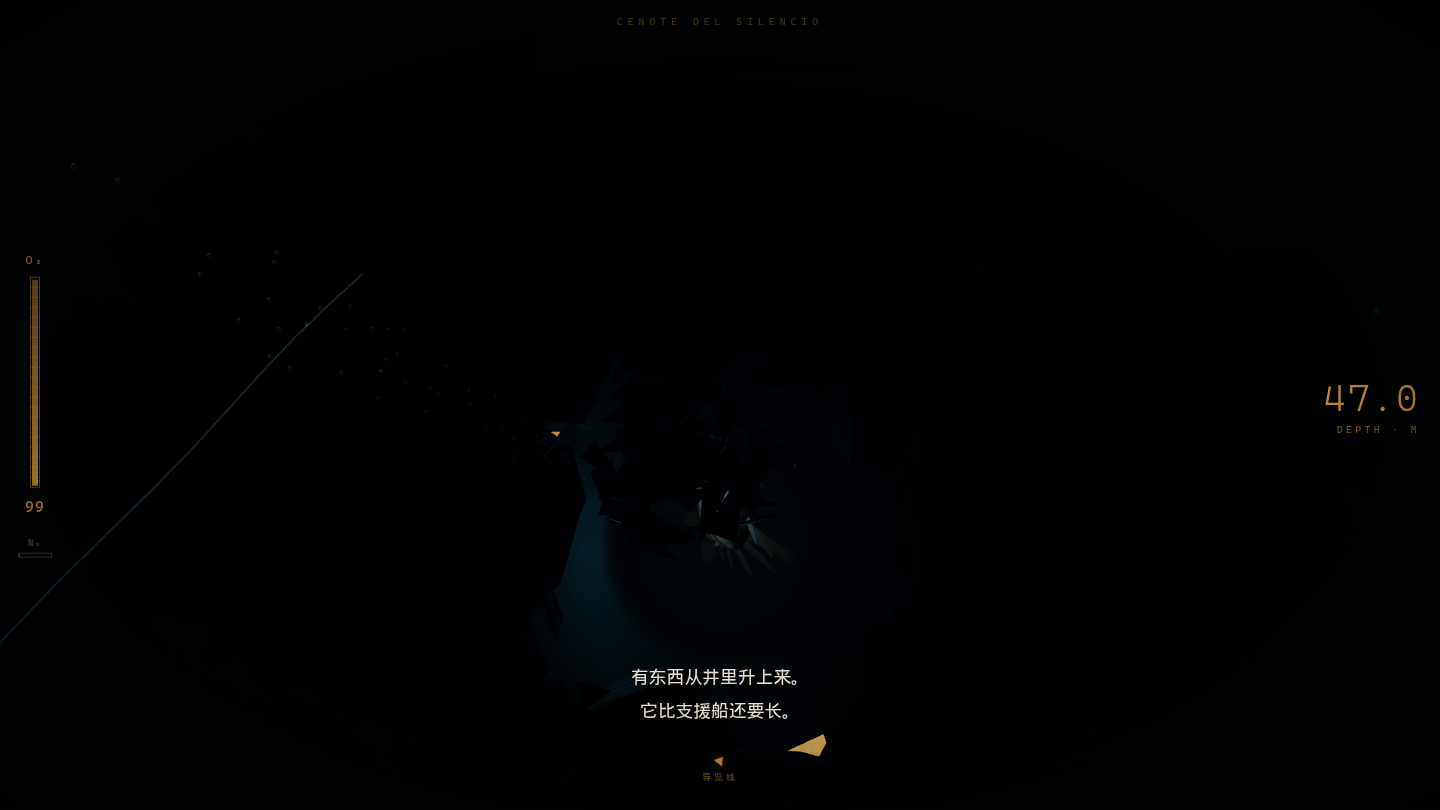
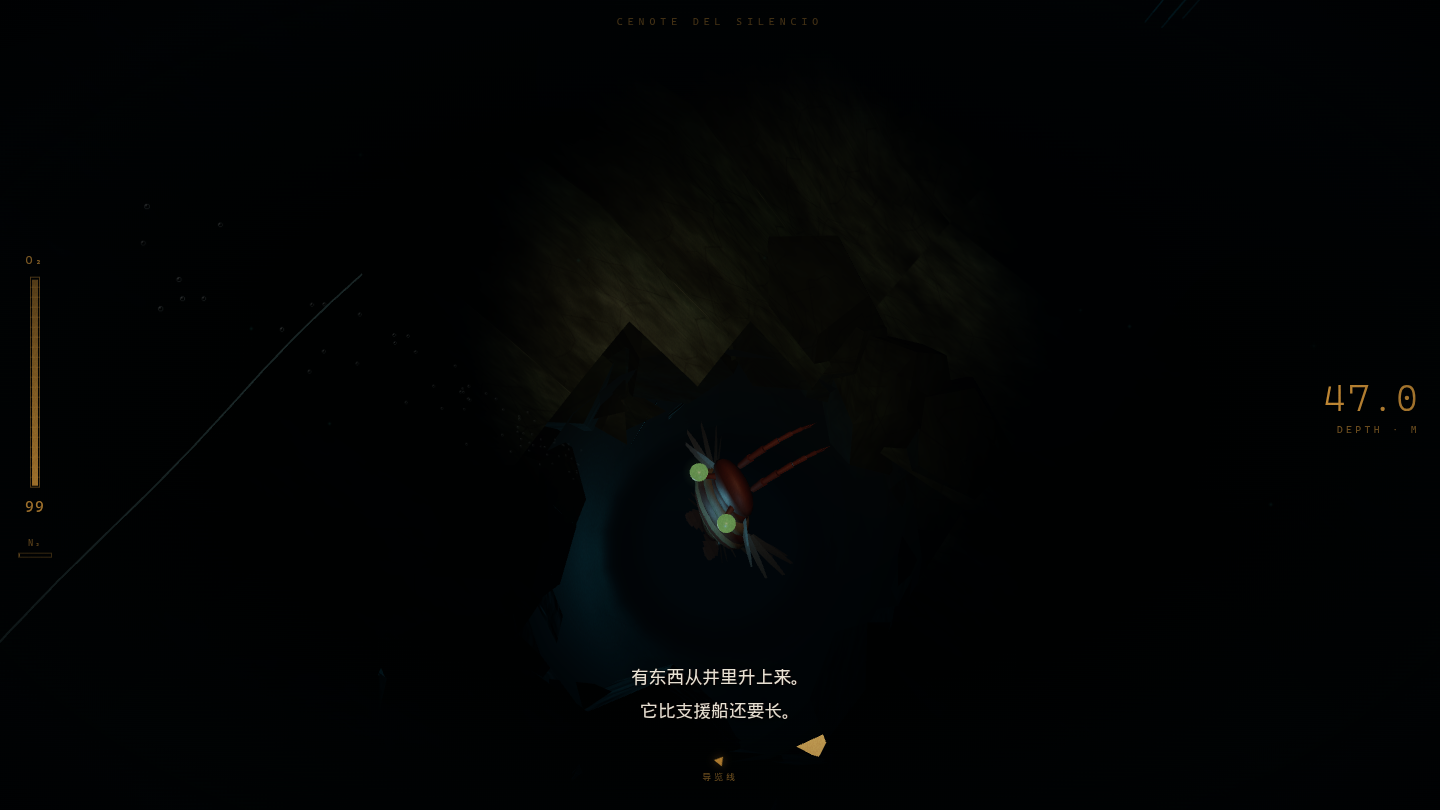
polish(LoopF-R1): 裂隙天窗光晕+光束增强(蓝块→燃烧天窗)、沉船双层补光与取景、卤水云面半径收敛(不再泄漏进大厅)、塔尖亮斑增强、通用地标查询/朝向调试钩子、水面英雄镜头

Changed region(s): [[0.4688, 0.5247, 0.5625, 0.679], [0.4062, 0.3086, 0.5, 0.463]]

diff --git a/src/game/Landmarks.ts b/src/game/Landmarks.ts
@@ -15,9 +15,11 @@ export class Landmarks {
   /** 卤水云层（Game 判定穿越） */
   readonly haloPlaneY: number;
   readonly haloCenter = new THREE.Vector3();
-  readonly haloRadius = 24;
+  readonly haloRadius = 15; // 不得泄漏进相邻的光之厅
   /** 祭坛供品（互动发光） */
   readonly altarPos = new THREE.Vector3();
+  /** 沉船中心（取景/调试用） */
+  readonly wreckPos = new THREE.Vector3();
   readonly altarLight: THREE.PointLight;
   private altarGems: THREE.Mesh[] = [];
   private haloMats: THREE.MeshBasicMaterial[] = [];
@@ -111,7 +113,7 @@ export class Landmarks {
       rad *= 0.62;
     }
     // 塔尖被光束击中的亮斑
-    const tipGlow = new THREE.PointLight(0xbfe8da, 26, 16, 1.7);
+    const tipGlow = new THREE.PointLight(0xbfe8da, 42, 18, 1.6);
     tipGlow.position.set(crack.x, y + 0.6, crack.z);
     cave.zoneLights.push(tipGlow);
     tower.add(tipGlow);
@@ -233,6 +235,7 @@ export class Landmarks {
     wreck.position.set(center.x + 2, floorY, center.z + 1.5);
     wreck.rotation.y = Math.atan2(tan.x, tan.z) + 0.5;
     wreck.rotation.z = 0.14;
+    this.wreckPos.set(center.x + 2, floorY + 0.8, center.z + 1.5);
 
     const wood = new THREE.MeshStandardMaterial({
       map: woodTexture(256),
@@ -300,11 +303,16 @@ export class Landmarks {
     wreck.add(lantern);
     this.group.add(wreck);
 
-    // 沉船厅幽绿死水补光
-    const fill = new THREE.PointLight(0x3a5c48, 60, 46, 1.45);
-    fill.position.set(center.x, center.y + 3, center.z);
+    // 沉船厅幽绿死水补光（主光压向船体，让龙骨肋骨的剪影可读）
+    const fill = new THREE.PointLight(0x3a5c48, 120, 52, 1.4);
+    fill.position.set(center.x + 1, center.y + 1.5, center.z + 1);
     cave.zoneLights.push(fill);
     this.group.add(fill);
+    // 船体上方的窄冷光——"墓志"式顶光
+    const top = new THREE.PointLight(0x6a9a8a, 30, 18, 1.7);
+    top.position.set(this.wreckPos.x, this.wreckPos.y + 5, this.wreckPos.z);
+    cave.zoneLights.push(top);
+    this.group.add(top);
   }
 
   // ---------- 支线A 玛雅祭坛壁龛 ----------

diff --git a/src/game/WaterWorld.ts b/src/game/WaterWorld.ts
@@ -1,7 +1,7 @@
 import * as THREE from 'three';
 import type { QualityProfile } from './quality';
 import type { Cave } from './Cave';
-import { causticFrames, shaftTexture, skyTexture, sunSprite } from './textures';
+import { causticFrames, particleSprite, shaftTexture, skyTexture, sunSprite } from './textures';
 
 /**
  * 水面与阳光系统（docs/ART_DIRECTION.md §3.5）：
@@ -252,7 +252,7 @@ export class WaterWorld {
     // 光之厅裂隙束
     const crack = cave.crackPoint;
     const beamH = 20;
-    const hb = mkBeam(0.9, 2.6, beamH, 0x8fd8c8, 0.4);
+    const hb = mkBeam(0.9, 2.6, beamH, 0x8fd8c8, 0.5);
     hb.position.set(crack.x, crack.y - beamH / 2 + 1.5, crack.z);
     this.group.add(hb);
     // 裂隙口的冷光源（照亮光之厅中央）
@@ -260,6 +260,21 @@ export class WaterWorld {
     crackLight.position.set(crack.x, crack.y - 4, crack.z);
     cave.zoneLights.push(crackLight);
     this.group.add(crackLight);
+    // 裂隙口光晕：让镂空处读作"燃烧的天窗"而非平面蓝块
+    const glowTex = particleSprite();
+    for (const [scale, op] of [[7, 0.55], [14, 0.22]] as [number, number][]) {
+      const halo = new THREE.Sprite(new THREE.SpriteMaterial({
+        map: glowTex,
+        color: 0xcff2e4,
+        transparent: true,
+        opacity: op,
+        depthWrite: false,
+        blending: THREE.AdditiveBlending,
+      }));
+      halo.scale.setScalar(scale);
+      halo.position.set(crack.x, crack.y - 0.6, crack.z);
+      this.group.add(halo);
+    }
 
     // ---------- god-ray 面片（补充层次） ----------
     this.rayMat = new THREE.MeshBasicMaterial({

diff --git a/src/game/Game.ts b/src/game/Game.ts
@@ -170,10 +170,18 @@ export class Game {
         if (this.phase === 'descent') this.beginSighting();
         this.ancient.skipTo(k);
       },
-      lookAncient: () => {
-        const d = this.ancient.group.position.clone().sub(this.player.camera.position).normalize();
-        this.player.pitch = Math.asin(THREE.MathUtils.clamp(d.y, -1, 1));
-        this.player.yaw = Math.atan2(-d.x, -d.z);
+      lookAncient: () => this.faceWorldPoint(this.ancient.group.position),
+      lookWorld: (x: number, y: number, z: number) => this.faceWorldPoint(new THREE.Vector3(x, y, z)),
+      mark: (name: string): number[] => {
+        const marks: Record<string, THREE.Vector3> = {
+          crack: this.cave.crackPoint,
+          pit: this.cave.pitCenter,
+          pool: this.cave.poolCenter,
+          altar: this.landmarks.altarPos,
+          wreck: this.landmarks.wreckPos,
+          boat: this.water.boatPos,
+        };
+        return (marks[name] ?? this.player.position).toArray();
       },
       boat: () => this.water.boatPos.toArray(),
       silt: (seconds: number) => {
@@ -191,6 +199,13 @@ export class Game {
         zone: this.cave.zoneAt(this.player.mainT),
       }),
     };
+  }
+
+  /** 调试：把视线对准世界点 */
+  private faceWorldPoint(v: THREE.Vector3): void {
+    const d = v.clone().sub(this.player.camera.position).normalize();
+    this.player.pitch = Math.asin(THREE.MathUtils.clamp(d.y, -1, 1));
+    this.player.yaw = Math.atan2(-d.x, -d.z);
   }
 
   private buildParticles(): void {
